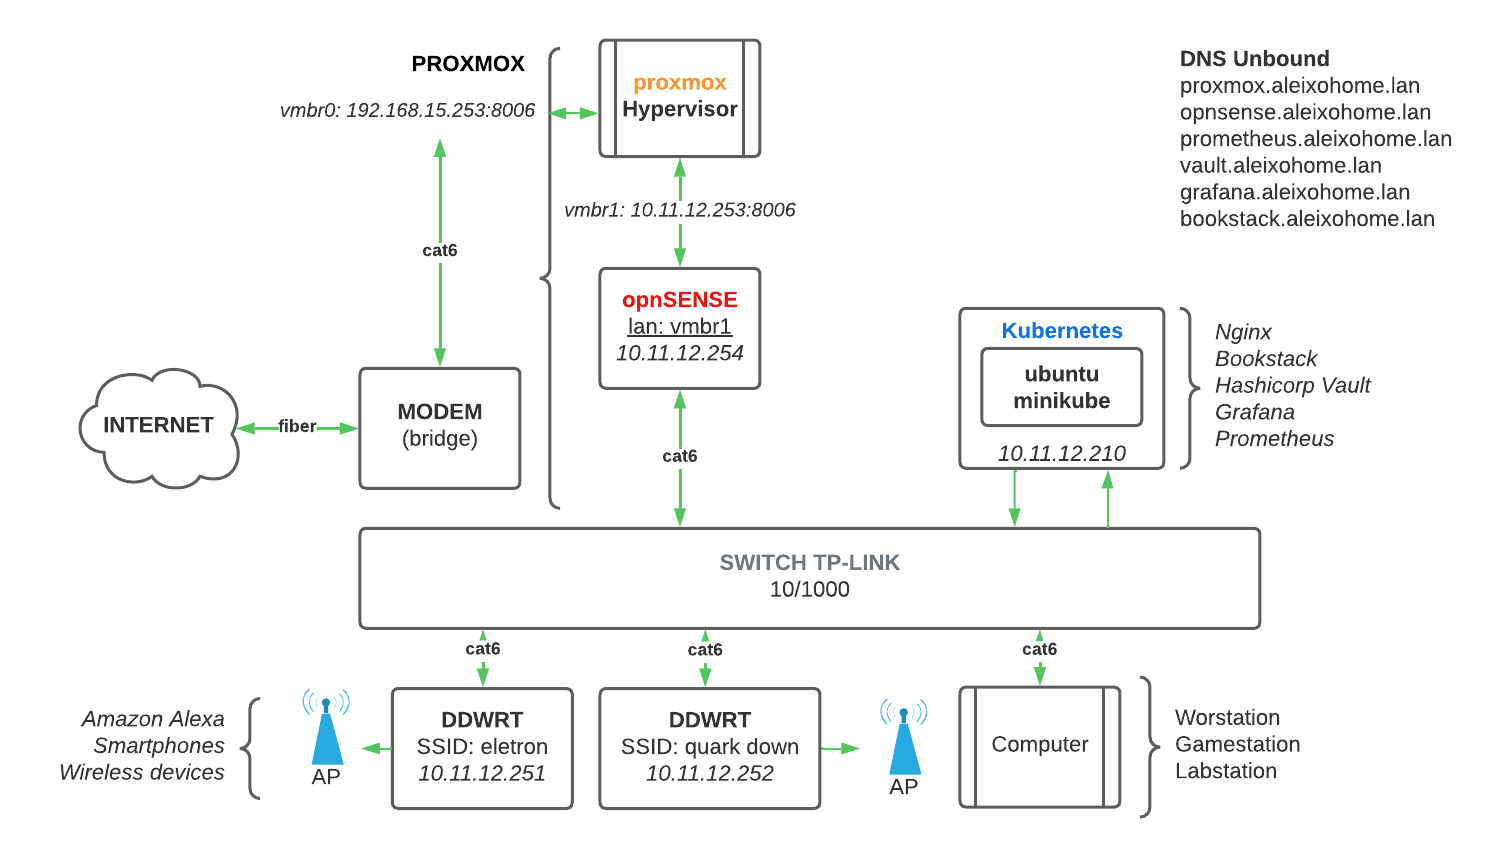
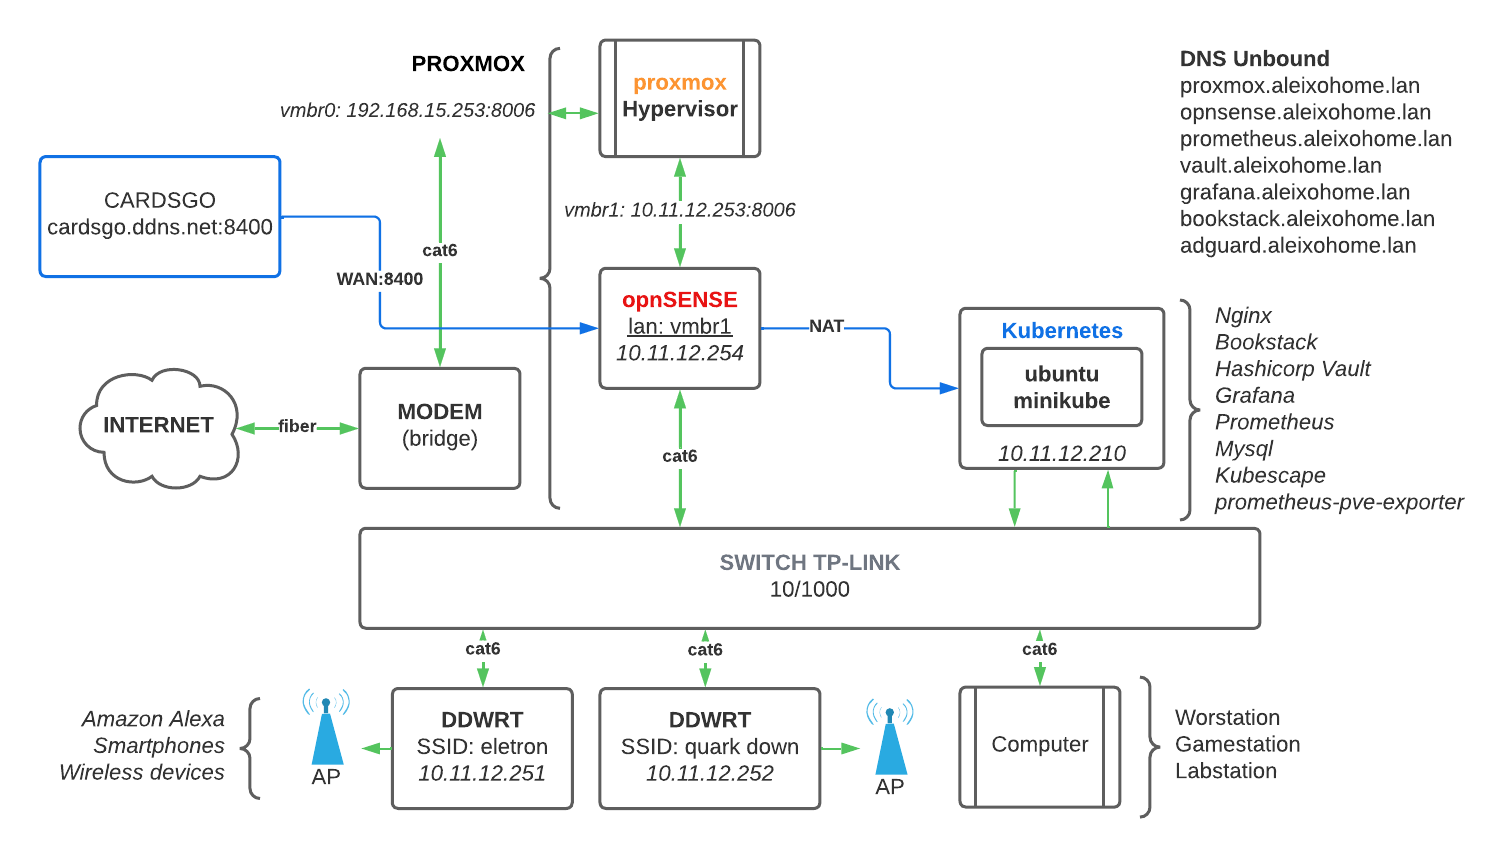
Ajustes para o cardsgo vim para o homelab

diff --git a/readme.md b/readme.md
@@ -5,7 +5,7 @@ Hello everyone, this is my small homelab, I decide to start with a very cheap ha
 ## Topology
 
 [![topology](static/images/homelab.png)]()
-\* Nothing is outside my network or port-forwarded.
+\* There are a kubernetes container being exposed outside lan through port 8400 with a nginx reverse proxy.
 <hr>
 
 ## Server Specs
@@ -33,6 +33,8 @@ Hello everyone, this is my small homelab, I decide to start with a very cheap ha
 - [MYSQL](virtual%20machines/ubuntu-minikube/Kubernetes/mysql/)
 - [PROMETHEUS](virtual%20machines/ubuntu-minikube/Kubernetes/prometheus/)
 - [PROXMOX-PROMETHEUS-EXPORTER](virtual%20machines/ubuntu-minikube/Kubernetes/prometheus-pve-exporter/)
+- [KUBESCAPE](virtual%20machines/ubuntu-minikube/Kubernetes/kubescape/)
+- [CARDSGO](virtual%20machines/ubuntu-minikube/Kubernetes/cardsgo/)
 
 <hr>
 

diff --git a/virtual machines/ubuntu-minikube/Kubernetes/cardsgo/readme.md b/virtual machines/ubuntu-minikube/Kubernetes/cardsgo/readme.md
@@ -1,0 +1,11 @@
+# CARDSGO
+This is a simple Kanban where you can add and move cards between 4 steps.
+
+## Setup
+```
+kubectl create ns cardsgo
+kubectl create -f .
+```
+
+# Usefull links
+- [Cardsgo github](https://github.com/AleixoLucas42/cardsgo)
